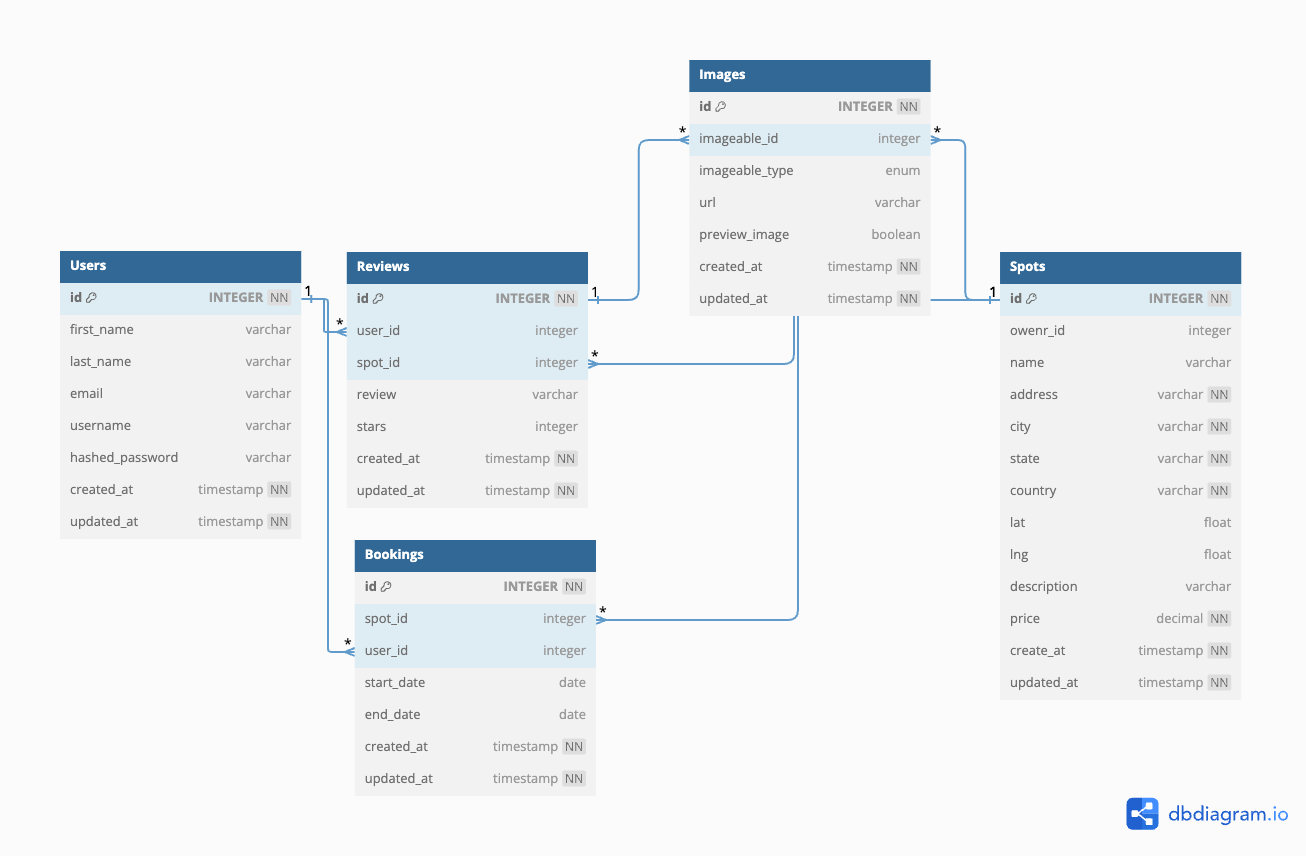
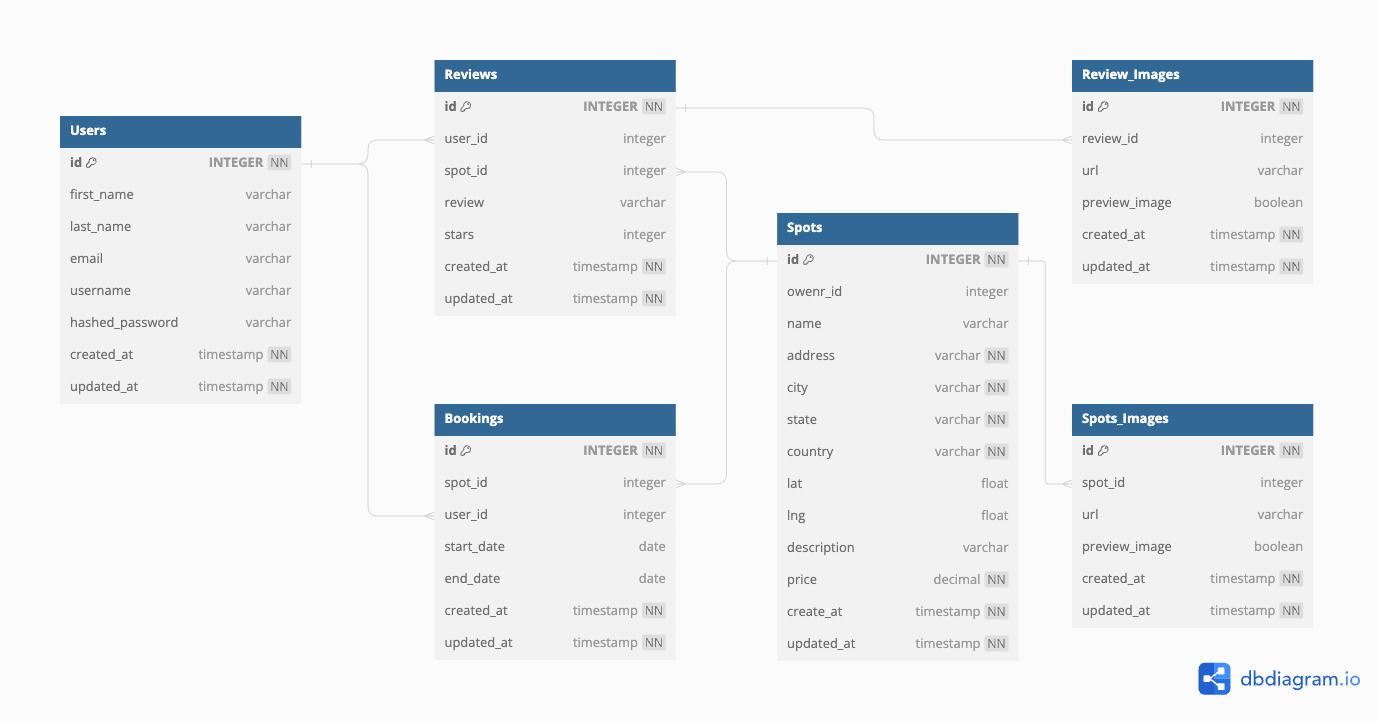
updated schema to remove the polly table

diff --git a/README.md b/README.md
@@ -287,7 +287,7 @@ Returns all the spots owned (created) by the current user.
 * Require Authentication: true
 * Request
   * Method: GET
-  * URL: /api/spots/session
+  * URL: /api/spots/current
   * Body: none
 
 * Successful Response
@@ -634,7 +634,7 @@ Returns all the reviews written by the current user.
 * Require Authentication: true
 * Request
   * Method: GET
-  * URL: /api/reviews/session
+  * URL: /api/reviews/current
   * Body: none
 
 * Successful Response
@@ -982,7 +982,7 @@ Return all the bookings that the current user has made.
 * Require Authentication: true
 * Request
   * Method: GET
-  * URL: /api/bookings/session
+  * URL: /api/bookings/current
   * Body: none
 
 * Successful Response
@@ -1321,7 +1321,7 @@ Delete an existing image for a Spot.
 * Require proper authorization: Spot must belong to the current user
 * Request
   * Method: DELETE
-  * URL: /api/images/:imageId
+  * URL: /api/spot-images/:imageId
   * Body: none
 
 * Successful Response
@@ -1356,7 +1356,7 @@ Delete an existing image for a Review.
 * Require proper authorization: Review must belong to the current user
 * Request
   * Method: DELETE
-  * URL: /api/images/:imageId
+  * URL: /api/review-images/:imageId
   * Body: none
 
 * Successful Response
@@ -1390,7 +1390,7 @@ Return spots filtered by query parameters.
 * Require Authentication: false
 * Request
   * Method: GET
-  * URL: api/spots
+  * URL: /api/spots
   * Query Parameters
     * page: integer, minimum: 1, maximum: 10, default: 1
     * size: integer, minimum: 1, maximum: 20, default: 20
